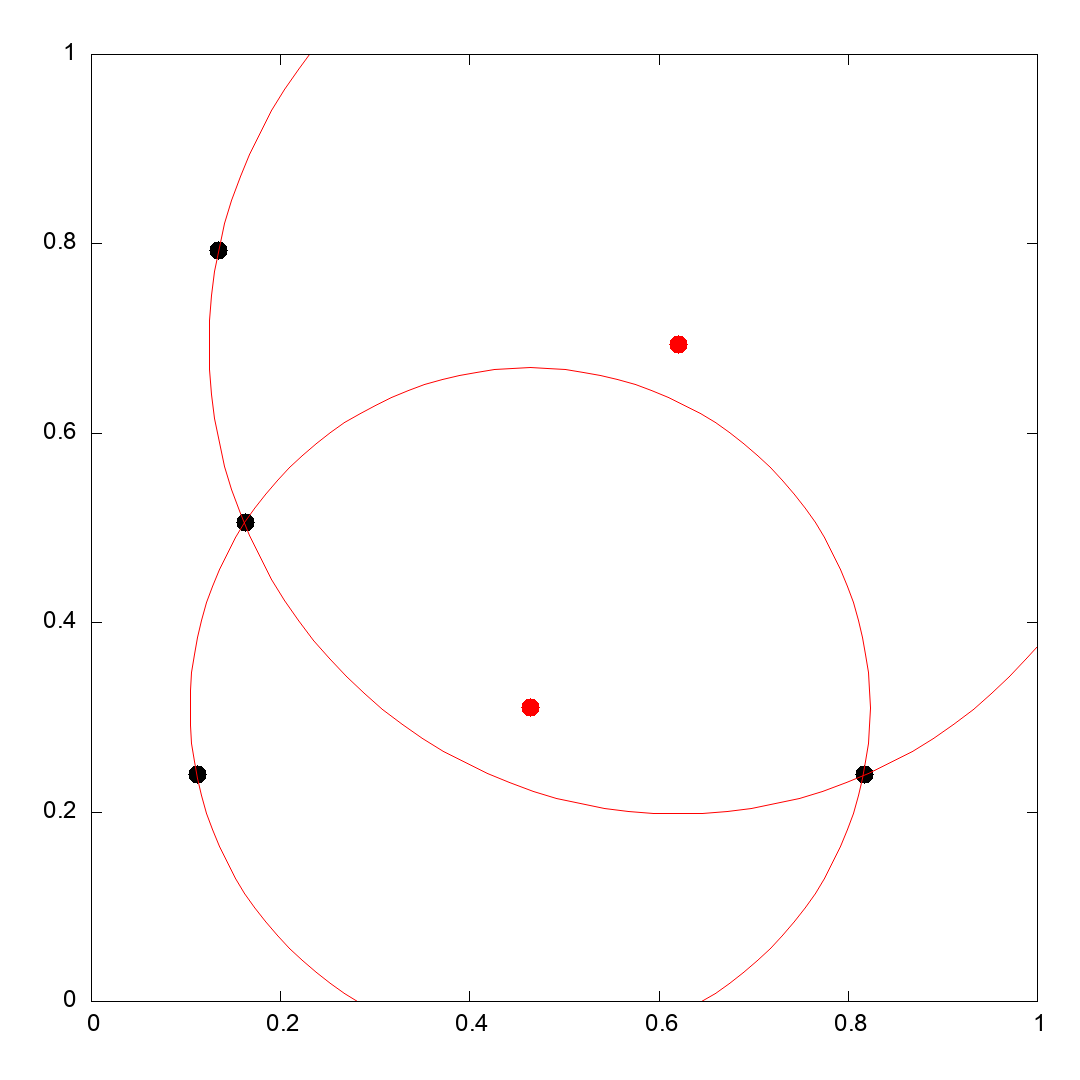
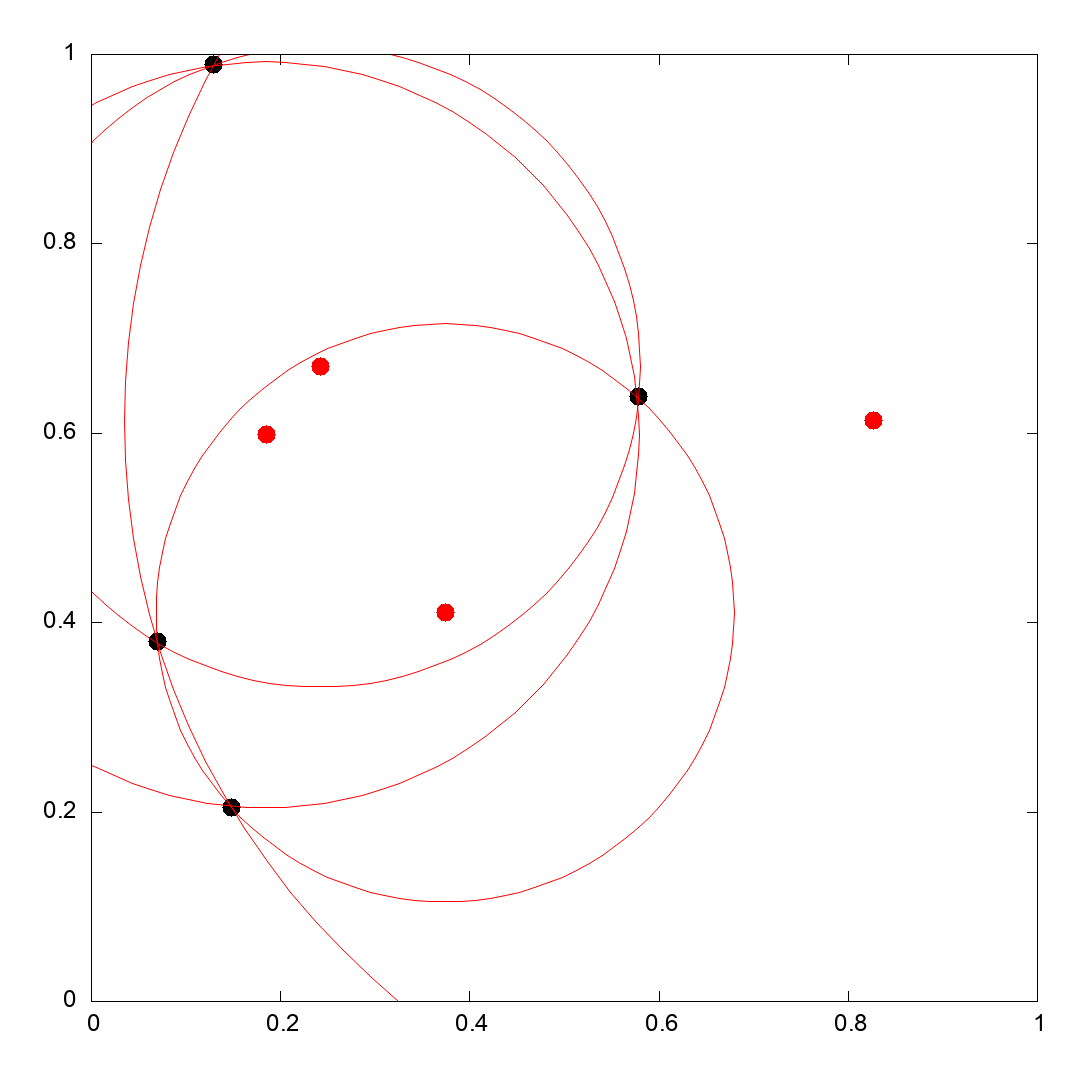
bounds of arcs not correct...

diff --git a/src/plot.c b/src/plot.c
@@ -1,10 +1,12 @@
 #include "include/plot.h"
 #include "include/geometry.h"
+#include "include/beachline.h"
 #include <stdio.h>
 #include <stdlib.h>
+#include <float.h>
 
 
-FILE *popen_gnuplot(void)
+FILE *popen_gnuplot(char *file_output)
 {
   FILE *pipe = popen("gnuplot -persistent", "w");
   if (!pipe) {
@@ -13,7 +15,7 @@ FILE *popen_gnuplot(void)
   }
 
   fprintf(pipe, "set terminal png enhanced font 'Arial,18' size 1080,1080 enhanced \n");
-  fprintf(pipe, "set output './plot.png'\n");
+  fprintf(pipe, "set output '%s'\n", file_output);
   fprintf(pipe, "set xrange [0:1]\n");
   fprintf(pipe, "set yrange [0:1]\n");
   fprintf(pipe, "set size square\n");
@@ -25,6 +27,7 @@ FILE *popen_gnuplot(void)
 void start_plot(FILE *pipe)
 {
   fprintf(pipe, "");
+  fflush(pipe);
   fprintf(pipe, "plot ");
 }
 
@@ -32,7 +35,7 @@ void start_plot(FILE *pipe)
 void end_plot(FILE *pipe)
 {
   fprintf(pipe, "\n");
-  fclose(pipe);
+  pclose(pipe);
 }
 
 
@@ -58,10 +61,68 @@ void add_circle(FILE *pipe, point2D_T center, double radius)
 
 void plot_seeds(const point2D_T *seeds, int N)
 {
-  FILE *pipe = popen_gnuplot();
+  FILE *pipe = popen_gnuplot("./plot.png");
   start_plot(pipe);
   add_seeds(pipe, seeds, N);
   end_plot(pipe);
-  
 }
 
+
+void add_parabola(FILE *pipe, point2D_T focus, double directrix, double min_x, double max_x)
+{
+  int N = 100;
+
+  fprintf(pipe,"\"<echo \'");
+  for (int ii=0; ii<N; ii++) {
+    double x = min_x + ii * (max_x - min_x) / (N - 1);
+    fprintf(pipe, "%f %f", x, parabola(focus, directrix, x));
+    if (ii < N-1) {
+      fprintf(pipe, "\\n");
+    }
+  }
+  //fprintf(pipe, "\'\" w lines notitle lt 8, ");
+  fprintf(pipe, "\'\" w lines notitle, ");
+}
+
+
+void add_yline(FILE *pipe, double y) 
+{
+  fprintf(pipe, "\"<echo \'%f %f\\n%f %f'\" w line lt 1 notitle, ", 0.0, y, 1.0, y);
+}
+
+
+void plot_current_frame(beachline_T bline, double sweep_y, point2D_T *seeds, int N)
+{
+  char filename[50];
+  static int num_frame = 0;
+  FILE *pipe = NULL;
+  if (bline) {
+    num_frame++;
+    snprintf(filename, 50, "./frames/frame_%d.png", num_frame);
+    printf("%s\n", filename);
+    pipe = popen_gnuplot(filename);
+    start_plot(pipe);
+    add_seeds(pipe, seeds, N);
+    add_yline(pipe, sweep_y);
+    printf("??\n");
+  }
+
+  arc_T *current = bline;
+  while (current) {
+    roots2_T bounds = arc_bounds(current, sweep_y);
+    if (bounds.neg == -FLT_MAX && bounds.pos > 0) {
+      bounds.neg = 0;
+    }
+    if (bounds.pos == FLT_MAX && bounds.neg < 1) {
+      bounds.pos = 1;
+    }
+    bounds.neg = 0;
+    bounds.pos = 1;
+    add_parabola(pipe, current->focus, sweep_y, bounds.neg, bounds.pos);
+    current = current->right;
+  }
+  
+  printf("||\n");
+  if (bline) end_plot(pipe);
+  printf("!!!\n");
+}

diff --git a/src/beachline.c b/src/beachline.c
@@ -59,15 +59,78 @@ void free_beachline(beachline_T bline)
 }
 
 
+roots2_T arc_bounds(arc_T *arc, double directrix)
+{
+  roots2_T bounds = {.neg = -FLT_MAX, .pos = FLT_MAX};
+  if (!arc) {
+    printf("ERROR!! Trying to find bounds of invalid arc...\n");
+    exit(1);
+  }
+  
+  arc_T *left = arc->left;
+  arc_T *right = arc->right;
+
+  roots2_T intersect_l, intersect_r;
+  if (left && right) {
+    intersect_l = intersect_parabs(left->focus, arc->focus, directrix);
+    intersect_r = intersect_parabs(arc->focus, right->focus, directrix);
+    
+    if (arc->focus.x > left->focus.x) {
+      bounds.neg = intersect_l.neg;
+    } else {
+      bounds.neg = intersect_l.pos;
+    }
+    if (arc->focus.x < right->focus.x) {
+      bounds.pos = intersect_r.pos;
+    } else {
+      bounds.pos = intersect_r.neg;
+    }
+  } else if (!left && right) {
+    intersect_r = intersect_parabs(arc->focus, right->focus, directrix);
+
+    if (arc->focus.x < right->focus.x) {
+      bounds.pos = intersect_r.pos;
+    } else {
+      bounds.pos = intersect_r.neg;
+    }
+  } else if (left && !right) {
+    intersect_l = intersect_parabs(left->focus, arc->focus, directrix);
+
+    if (arc->focus.x > left->focus.x) {
+      bounds.neg = intersect_l.neg;
+    } else {
+      bounds.neg = intersect_l.pos;
+    }
+    bounds.neg = 0;
+    bounds.pos = 1;
+  }
+
+  return bounds; 
+}
+
+
 arc_T *find_arc_above(beachline_T bline, point2D_T focus)
 {
   // Return pointer to arc of beachline that lies directly above new focus.
-  // This is done by comparing focus.x with intersections of existing arcs
+  // This is done by comparing focus.x with bounds of existing arcs
   if (!bline) {
     return NULL;
   }
 
   arc_T *current = bline;
+  while (current->right) {
+    roots2_T bounds = arc_bounds(current, focus.y);
+    if (focus.x > bounds.neg && focus.x < bounds.pos) {
+      return current;
+    }
+
+    current = current->right;
+  }
+  
+  printf("end!\n");
+  return current;
+}
+/*
   arc_T *next = bline->right;
 
   roots2_T next_intersect;
@@ -98,7 +161,7 @@ arc_T *find_arc_above(beachline_T bline, point2D_T focus)
     printf("ERROR!! Reached rightmost arc without finding arc above...\n");
     exit(1);
   }
-}
+} */
 
 
 arc_T *insert_arc(beachline_T *bline, arc_T *arc_above, point2D_T focus)

diff --git a/src/fortune.c b/src/fortune.c
@@ -61,10 +61,9 @@ void event_vertex(queue_T *queue, beachline_T *bline, event_T event)
 
 site_T *fortune_algorithm(point2D_T *seeds, int N)
 {
-  FILE *pipe = popen_gnuplot();
+  FILE *pipe = popen_gnuplot("./plot.png");
   start_plot(pipe);
   add_seeds(pipe, seeds, N);
-  
 
   queue_T queue = initialize_queue(seeds, N);
 
@@ -74,10 +73,11 @@ site_T *fortune_algorithm(point2D_T *seeds, int N)
   while (queue) {
     event_T event = pop_event(&queue);
     putchar('\n');
-    //print_beachline(bline);
+    print_beachline(bline);
     //print_event(&event);
     //print_queue(queue);
 
+    plot_current_frame(bline, event.p.y, seeds, N);
     if (event.type == EVENT_SITE) {
       event_site(&queue, &bline, event);
     } else if (event.type == EVENT_VERTEX) {

diff --git a/src/include/plot.h b/src/include/plot.h
@@ -2,9 +2,10 @@
 #define VORONOI_PLOT_H
 
 #include "geometry.h"
+#include "beachline.h"
 #include <stdio.h>
 
-FILE *popen_gnuplot(void);
+FILE *popen_gnuplot(char *file_output);
 
 void start_plot(FILE *pipe);
 void end_plot(FILE *pipe);
@@ -14,5 +15,10 @@ void add_seeds(FILE *pipe, const point2D_T *seeds, int N);
 void add_circle(FILE *pipe, point2D_T center, double radius);
 
 void plot_seeds(const point2D_T *seeds, int N);
+
+void add_parabola(FILE *pipe, point2D_T focus, double directrix, double min_x, double max_x);
+void add_yline(FILE *pipe, double y);
+
+void plot_current_frame(beachline_T bline, double sweep_y, point2D_T *seeds, int N);
 
 #endif

diff --git a/src/geometry.c b/src/geometry.c
@@ -75,6 +75,12 @@ roots2_T intersect_parabs(point2D_T f1, point2D_T f2, double directrix)
     out.pos = (-B - sqrt(B*B - 4*A*C)) / (2*A);
     out.neg = (-B + sqrt(B*B - 4*A*C)) / (2*A);
   }
+
+  if (out.pos < out.neg) {
+    double aux = out.neg;
+    out.neg = out.pos;
+    out.pos = aux;
+  }
   return out;
 }
 

diff --git a/src/include/beachline.h b/src/include/beachline.h
@@ -21,6 +21,8 @@ arc_T *new_arc(point2D_T focus);
 
 void free_beachline(beachline_T bline);
 
+roots2_T arc_bounds(arc_T *arc, double directrix);
+
 arc_T *find_arc_above(beachline_T bline, point2D_T focus);
 
 arc_T *insert_arc(beachline_T *bline, arc_T *arc_above, point2D_T focus);
